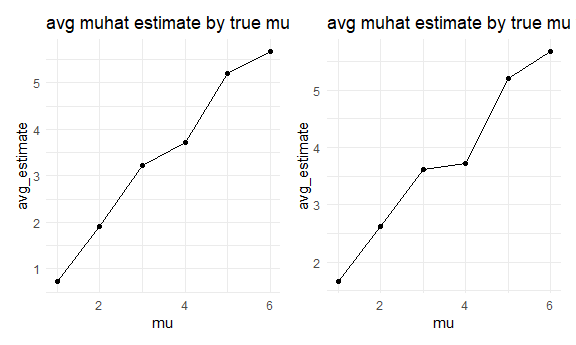
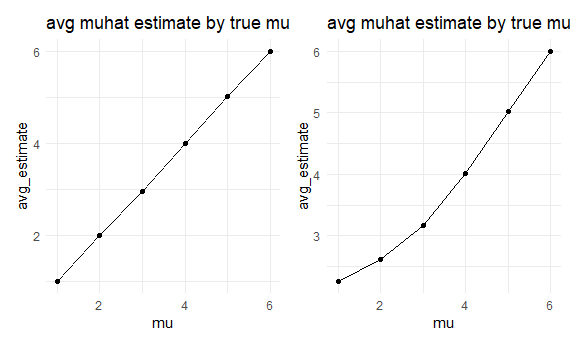
Knitted with 5000 datasets (patience, young grasshoppa)

diff --git a/hw5.md b/hw5.md
@@ -8,14 +8,14 @@ library(readr)
 library(tidyverse)
 ```
 
-    ## -- Attaching packages ------------------------------------------------------------------------------------------- tidyverse 1.3.0 --
+    ## -- Attaching packages ---------------------- tidyverse 1.3.0 --
 
     ## v ggplot2 3.3.2     v dplyr   1.0.1
     ## v tibble  3.0.3     v stringr 1.4.0
     ## v tidyr   1.1.1     v forcats 0.5.0
     ## v purrr   0.3.4
 
-    ## -- Conflicts ---------------------------------------------------------------------------------------------- tidyverse_conflicts() --
+    ## -- Conflicts ------------------------- tidyverse_conflicts() --
     ## x dplyr::filter() masks stats::filter()
     ## x dplyr::lag()    masks stats::lag()
 
@@ -422,7 +422,7 @@ sim_ttest = function(samp_size = 30, mu, sigma = 5) {
 
 
 sim_results = 
-  rerun(10, sim_ttest(mu = 0)) %>% 
+  rerun(5000, sim_ttest(mu = 0)) %>% 
   bind_rows()
 
 mu_list =
@@ -435,7 +435,7 @@ mu_list =
 output = vector("list", length = 6)
 for (i in 1:6) {
   output[[i]] =
-    rerun(10, sim_ttest(mu = mu_list[[i]])) %>% 
+    rerun(5000, sim_ttest(mu = mu_list[[i]])) %>% 
     bind_rows()
 }
 
@@ -511,7 +511,7 @@ mu_list =
 output = vector("list", length = 6)
 for (i in 1:6) {
   output[[i]] =
-    rerun(10, sim_ttest(mu = mu_list[[i]])) %>% 
+    rerun(5000, sim_ttest(mu = mu_list[[i]])) %>% 
     bind_rows() %>% mutate(mu = i)
 }
 
